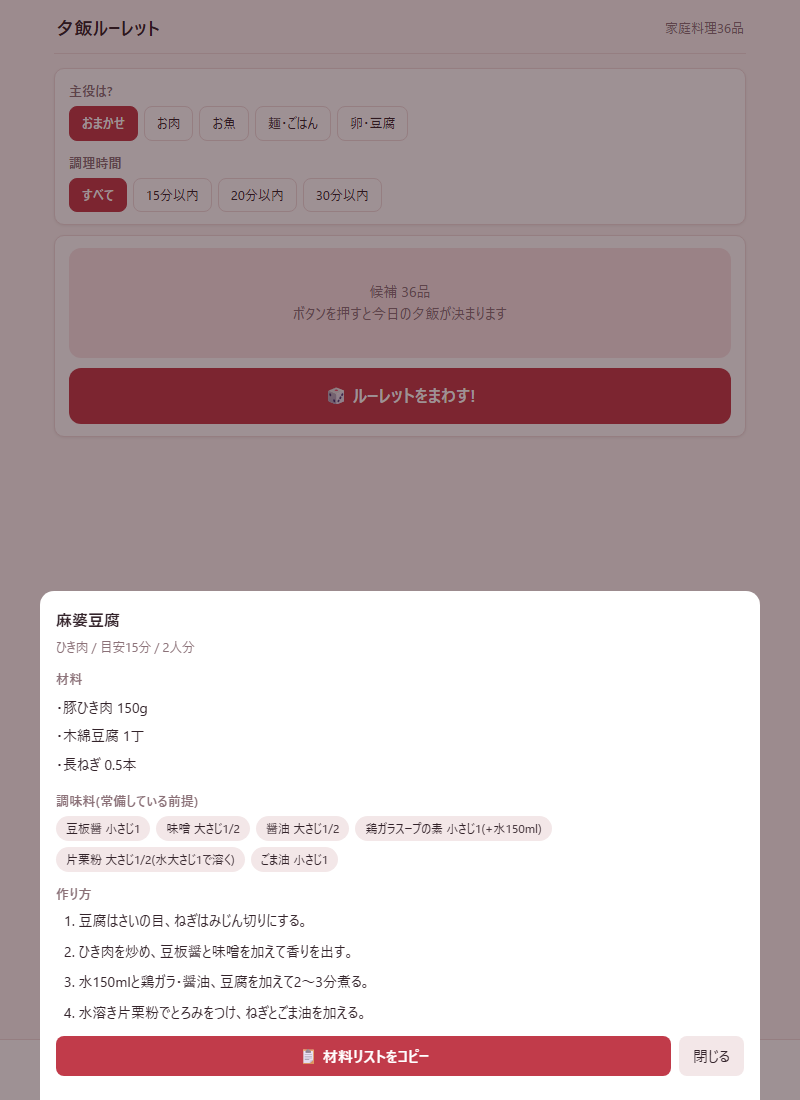
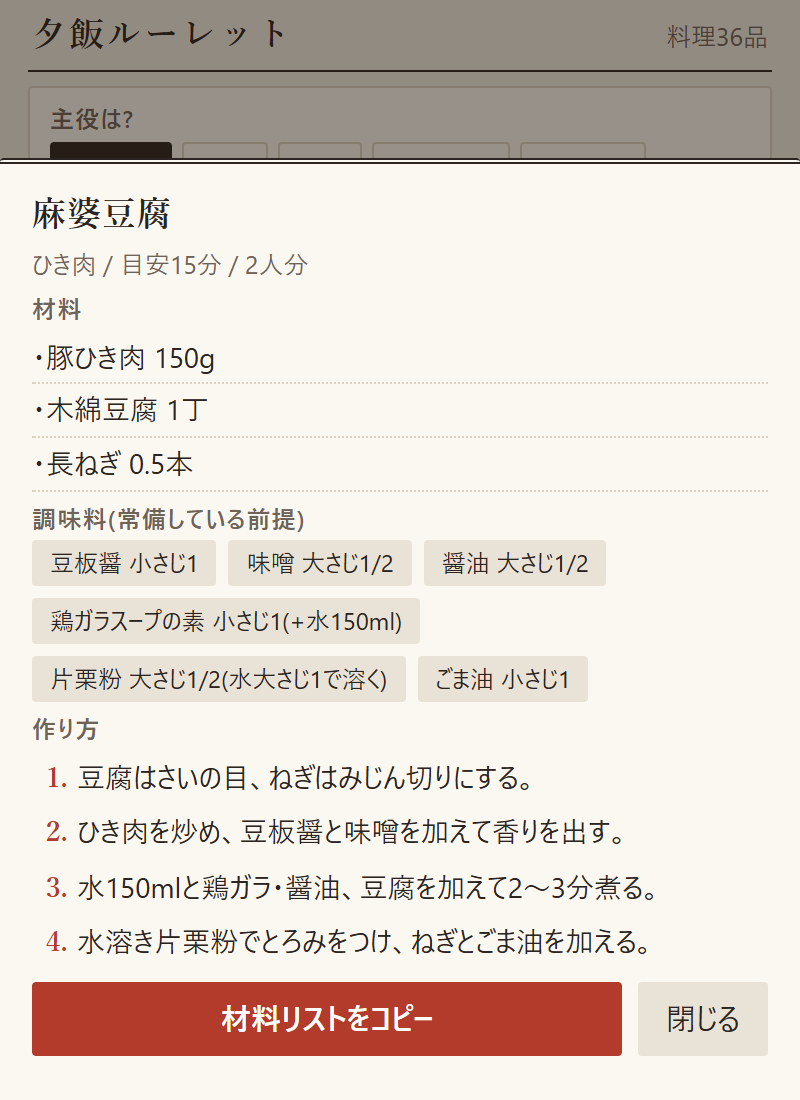
説明書の画像を新しい見た目に

diff --git a/HANDOVER.md b/HANDOVER.md
@@ -38,7 +38,7 @@
 
 ## 記事用の素材
 
-- `docs/screenshot-roulette.png` — ルーレット結果(🎉決定画面と履歴)
+- `docs/screenshot-roulette.png` — ルーレット結果(木札の決定画面と履歴)
 - `docs/screenshot-shindan.png` — 気分診断(3問と診断結果ベスト3)
 - `docs/screenshot-mine.png` — マイ料理の登録フォームと追加済み一覧
 - `docs/screenshot-detail.png` — レシピ詳細(材料・調味料・作り方)
